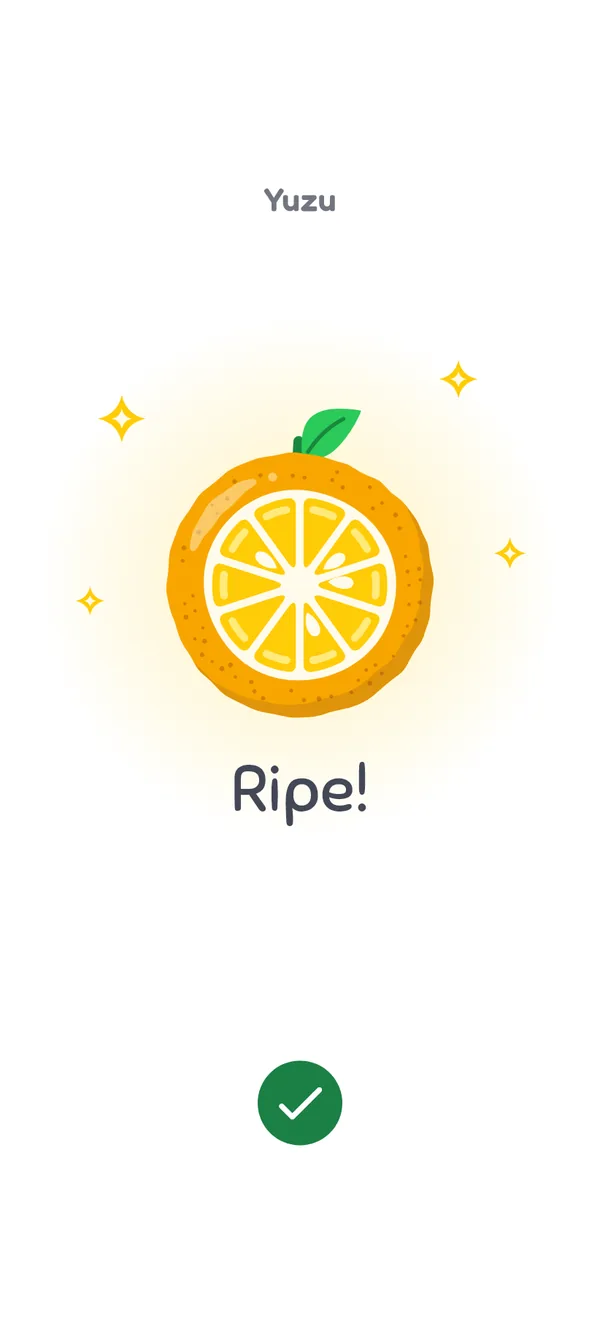
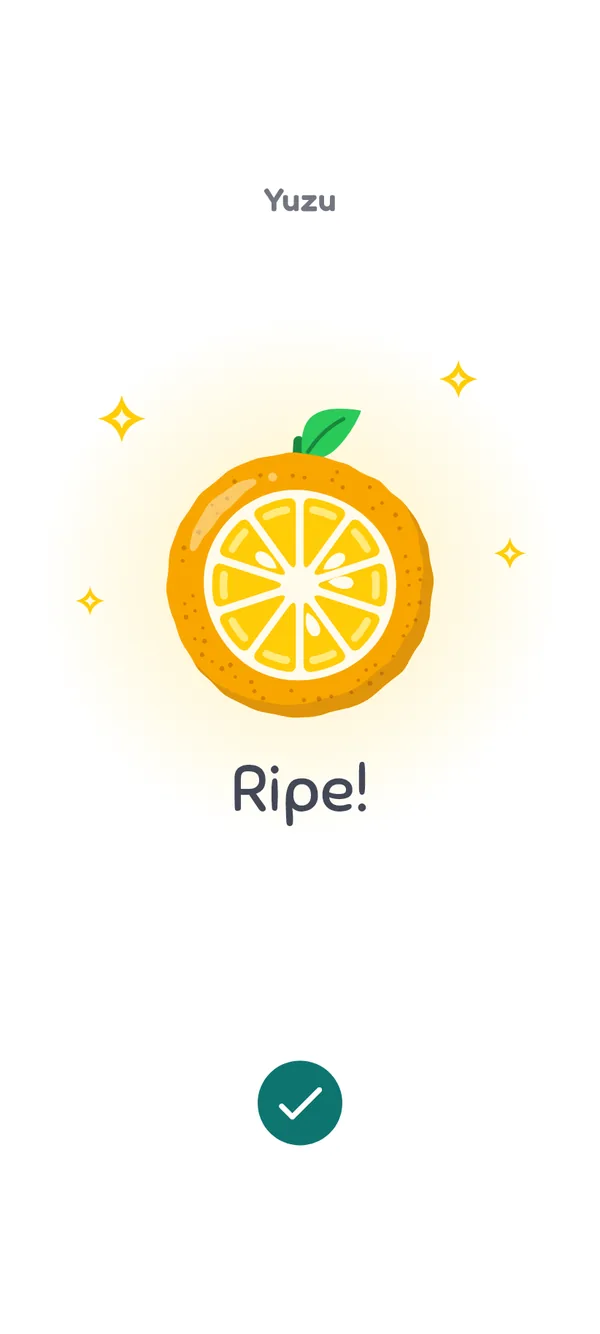
Teal instead of garden green, as in the app
The app's UI colour is now deep teal #0E7470 (the icon's ground), so the
site's buttons and links follow: --teal on light grounds, --teal-light
#45B8AE on soil. Screenshots and the social preview re-rendered.

Changed region(s): [[0.42, 0.7684, 0.57, 0.8606]]

diff --git a/css/site.css b/css/site.css
@@ -48,8 +48,8 @@
   /* brand */
   --white: #FFFFFF;
   --slate: #434856;
-  --green: #1B7F45;          /* garden green: buttons and links on light grounds */
-  --green-light: #53C683;    /* same hue (145°), lighter: links and buttons on soil */
+  --teal: #0E7470;           /* deep teal, the app's UI colour and icon ground: buttons and links on light grounds */
+  --teal-light: #45B8AE;     /* the app's teal for dark grounds: links and buttons on soil (7.4:1) */
   --gold: #F8A600;           /* yuzu gold: general accent; fills with slate text or decoration, never text on white */
   --plus: #A3354A;           /* cranberry: yuzudo+ only and always; fills with white text */
   --plus-mark: #A3354A;      /* yuzudo+ text and thin marks (lighter on dark grounds) */
@@ -60,8 +60,8 @@
   --bg: var(--white);
   --text: var(--slate);
   --muted: #5B6070;
-  --link: var(--green);
-  --btn: var(--green);
+  --link: var(--teal);
+  --btn: var(--teal);
   --on-btn: var(--white);
   --surface: var(--paper);
   --line: #EFE2CA;
@@ -92,8 +92,8 @@
     --bg: var(--soil);
     --text: var(--paper);
     --muted: #CFC4B4;
-    --link: var(--green-light);
-    --btn: var(--green-light);
+    --link: var(--teal-light);
+    --btn: var(--teal-light);
     --on-btn: var(--soil);
     --surface: #2A221E;
     --line: #3D332D;
